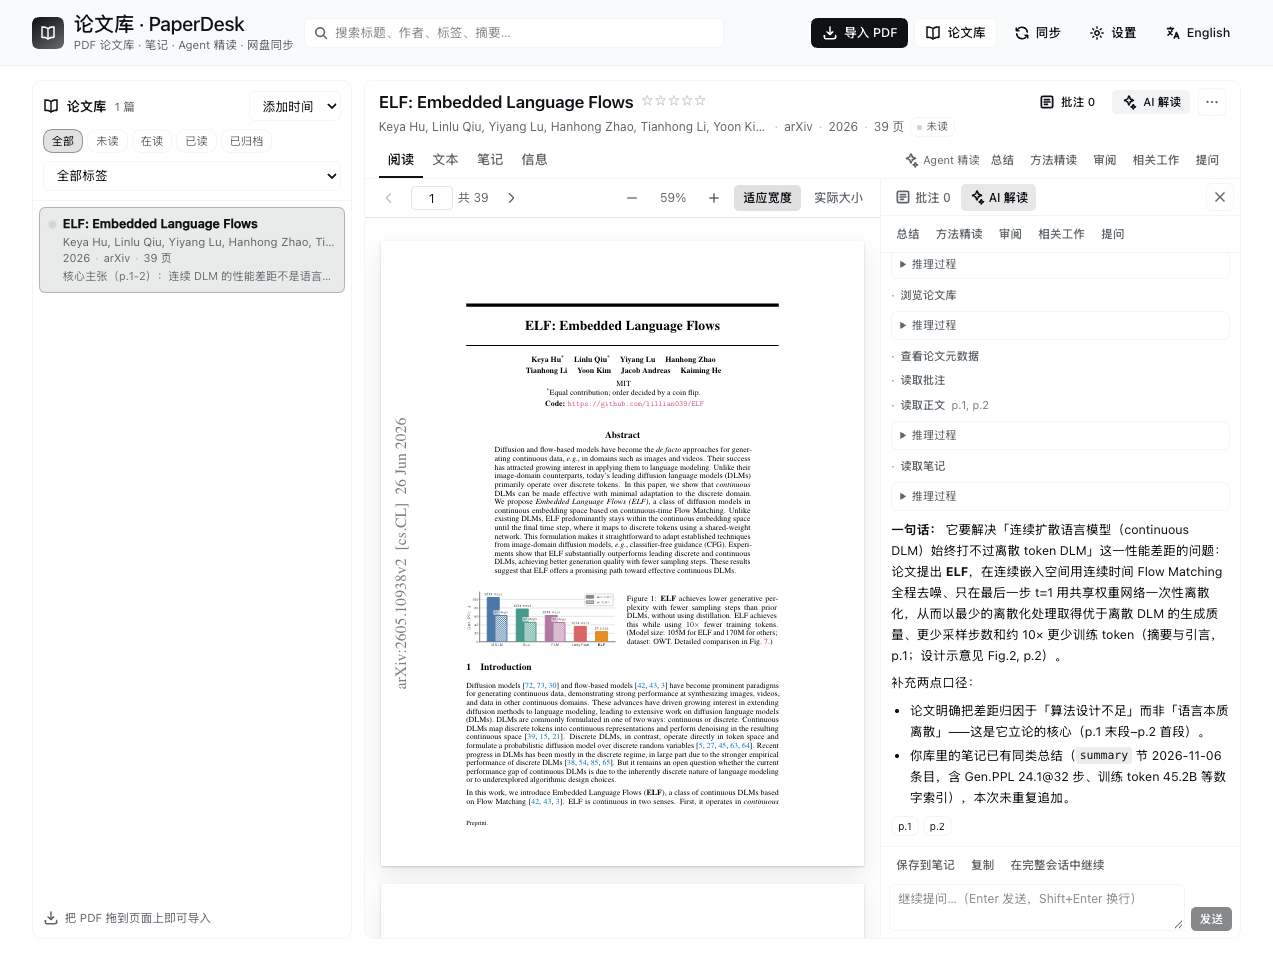
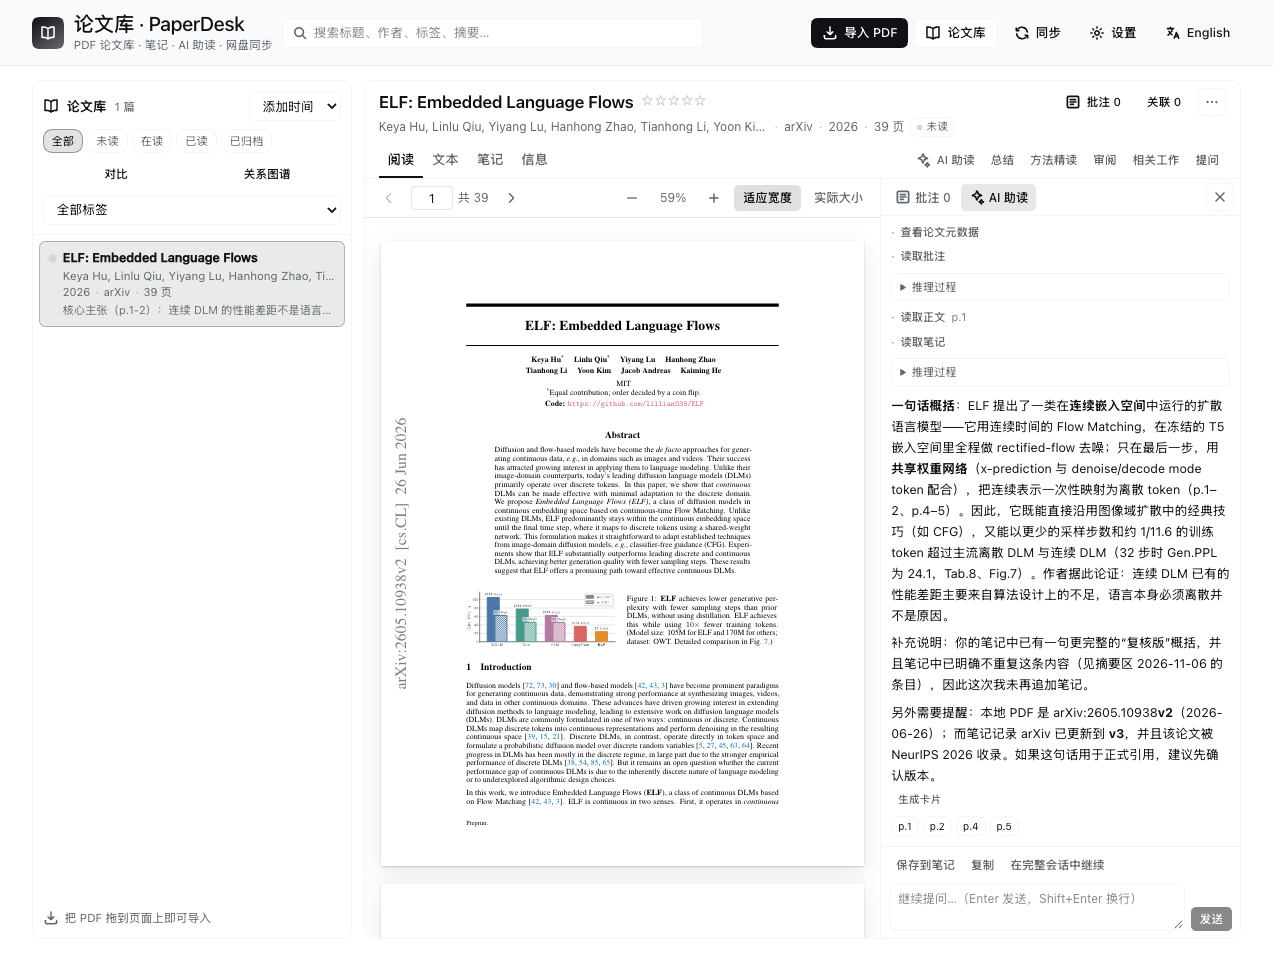
fix(reader): single AI entry, reliable send feedback, rename to AI 助读
- remove the duplicate header AI button; the only entry is now the AI 助读
  button + task chips above the viewer
- drop the duplicate task row inside the AI drawer (keeps conversation,
  citations, card action and follow-up input only)
- send no longer clears the draft before the session accepts the prompt: a
  rejected send keeps the question and shows the error; show the thinking
  indicator immediately while attaching/submitting
- rename AI 解读 / Agent 精读 to AI 助读 (zh) and AI reading (en) across
  reader, drawer, dialogs, cards and aria labels
- update the reader/AI screenshot; bump to 0.3.1

diff --git a/client/i18n.ts b/client/i18n.ts
@@ -14,11 +14,11 @@ export type Lang = 'zh' | 'en'
 const zh = {
   // ── panel registration (used by client/index.tsx) ──────────────────────
   'title': '论文库 PaperDesk',
-  'description': '管理论文：导入 PDF、自动补全元数据、记笔记与高亮，并让 Agent 精读论文。',
+  'description': '管理论文：导入 PDF、自动补全元数据、记笔记与高亮，并让 AI 帮你读论文。',
 
   // ── app shell ──────────────────────────────────────────────────────────
   'app.title': '论文库 · PaperDesk',
-  'app.subtitle': 'PDF 论文库 · 笔记 · Agent 精读 · 网盘同步',
+  'app.subtitle': 'PDF 论文库 · 笔记 · AI 助读 · 网盘同步',
   'app.lang.zh': '中文',
   'app.lang.en': 'English',
   'app.lang.label': '界面语言',
@@ -196,7 +196,7 @@ const zh = {
   'annotations.saveFailed': '保存批注失败',
   'annotations.deleteFailed': '删除批注失败',
   'annotations.askTitle': '针对这条批注问 Agent',
-  'annotations.askDesc': '问题会和引用原文一起带给 Agent，并在新会话中发送。',
+  'annotations.askDesc': '问题会和引用原文一起发给 AI 助读，并在右侧面板中继续。',
   'annotations.askPlaceholder': '想问什么？',
   'annotations.askSubmit': '发送',
   'annotations.askFailed': '无法向 Agent 提问',
@@ -288,8 +288,8 @@ const zh = {
   'notes.retry': '重新加载',
 
   // ── in-panel AI drawer ─────────────────────────────────────────────────
-  'ai.title': 'AI 解读',
-  'ai.emptyHint': '选择上面的任务，让 Agent 在这里精读这篇论文。',
+  'ai.title': 'AI 助读',
+  'ai.emptyHint': '点上方任务快速开始，或在下方直接提问。',
   'ai.thinking': '正在思考…',
   'ai.attaching': '正在连接会话…',
   'ai.stop': '停止',
@@ -305,7 +305,7 @@ const zh = {
   'ai.openInSessionFailed': '无法打开完整会话',
   'ai.jumpHint': '引用页',
   'ai.retry': '重试',
-  'ai.error': 'AI 解读失败',
+  'ai.error': 'AI 助读失败',
   'ai.attachFailed': '无法连接 AI 会话',
   'ai.nothingToSave': '还没有可保存的回复',
   'ai.scrolledUpHint': '跳到最新',
@@ -313,8 +313,8 @@ const zh = {
   'ai.reasoning': '推理过程',
 
   // ── agent assist ───────────────────────────────────────────────────────
-  'assist.title': 'Agent 精读',
-  'assist.hint': '在右侧面板中运行 Agent',
+  'assist.title': 'AI 助读',
+  'assist.hint': '在右侧面板中让 AI 帮你读这篇论文',
   'assist.summary': '总结',
   'assist.method': '方法精读',
   'assist.critique': '审阅',
@@ -323,8 +323,8 @@ const zh = {
   'assist.quote': '针对选中内容提问',
   'assist.custom': '自定义',
   'assist.failed': '无法启动新会话',
-  'assist.question.title': '向 Agent 提问',
-  'assist.question.desc': '问题会带着选中内容一起发送给右侧面板中的 Agent。',
+  'assist.question.title': '向 AI 助读提问',
+  'assist.question.desc': '问题会带着选中内容一起发送到右侧 AI 助读面板。',
   'assist.question.placeholder': '输入你的问题…',
   'assist.question.ask': '开始提问',
 
@@ -443,7 +443,7 @@ const zh = {
   'aria.tagFilter': '按标签筛选',
   'aria.sort': '排序方式',
   'aria.notesEditor': '笔记编辑器',
-  'aria.assistBar': 'Agent 精读操作',
+  'aria.assistBar': 'AI 助读操作',
   'aria.rating': '评分',
   'aria.language': '切换界面语言',
   'aria.readerTabs': '论文内容标签',
@@ -454,7 +454,7 @@ const zh = {
   'cards.create': '新建卡片',
   'cards.loading': '正在加载卡片…',
   'cards.empty': '还没有卡片',
-  'cards.emptyHint': '从 AI 解读的回答生成卡片，把结论沉淀在笔记旁边。',
+  'cards.emptyHint': '从 AI 助读的回答生成卡片，把结论沉淀在笔记旁边。',
   'cards.editorCreate': '生成卡片',
   'cards.editorEdit': '编辑卡片',
   'cards.editorHint': '卡片保存在论文目录的 cards.json 中，可以编辑后再插入笔记。',
@@ -523,11 +523,11 @@ type DictKey = keyof typeof zh
 const en: Record<DictKey, string> = {
   // ── panel registration (used by client/index.tsx) ──────────────────────
   'title': 'PaperDesk Library',
-  'description': 'Manage papers: import PDFs, enrich metadata, take notes and let the agent deep-read them.',
+  'description': 'Manage papers: import PDFs, enrich metadata, take notes and let AI help you read them.',
 
   // ── app shell ──────────────────────────────────────────────────────────
   'app.title': 'PaperDesk · Library',
-  'app.subtitle': 'PDF library · notes · agent deep-reads · cloud sync',
+  'app.subtitle': 'PDF library · notes · AI reading · cloud sync',
   'app.lang.zh': '中文',
   'app.lang.en': 'English',
   'app.lang.label': 'Interface language',
@@ -798,7 +798,7 @@ const en: Record<DictKey, string> = {
 
   // ── in-panel AI drawer ─────────────────────────────────────────────────
   'ai.title': 'AI reading',
-  'ai.emptyHint': 'Pick a task above and let the agent read this paper right here.',
+  'ai.emptyHint': 'Pick a task above to start, or ask below.',
   'ai.thinking': 'Thinking…',
   'ai.attaching': 'Connecting the session…',
   'ai.stop': 'Stop',
@@ -822,8 +822,8 @@ const en: Record<DictKey, string> = {
   'ai.reasoning': 'Reasoning',
 
   // ── agent assist ───────────────────────────────────────────────────────
-  'assist.title': 'Agent deep-read',
-  'assist.hint': 'runs the agent in the side panel',
+  'assist.title': 'AI reading',
+  'assist.hint': 'Read this paper with AI in the side panel',
   'assist.summary': 'Summary',
   'assist.method': 'Method deep-dive',
   'assist.critique': 'Critique',
@@ -832,8 +832,8 @@ const en: Record<DictKey, string> = {
   'assist.quote': 'Ask about selection',
   'assist.custom': 'Custom',
   'assist.failed': 'Could not start a new session',
-  'assist.question.title': 'Ask the agent',
-  'assist.question.desc': 'The question and the selection are sent to the agent in the side panel.',
+  'assist.question.title': 'Ask the AI reader',
+  'assist.question.desc': 'The question and the selection are sent to the AI panel on the right.',
   'assist.question.placeholder': 'Type your question…',
   'assist.question.ask': 'Ask',
 
@@ -952,7 +952,7 @@ const en: Record<DictKey, string> = {
   'aria.tagFilter': 'Filter by tag',
   'aria.sort': 'Sort order',
   'aria.notesEditor': 'Notes editor',
-  'aria.assistBar': 'Agent deep-read actions',
+  'aria.assistBar': 'AI reading actions',
   'aria.rating': 'Rating',
   'aria.language': 'Switch interface language',
   'aria.readerTabs': 'Paper content tabs',

diff --git a/client/AiPanel.tsx b/client/AiPanel.tsx
@@ -11,10 +11,6 @@ import type { AiRow, AiThreadController } from './aiSession.js'
 import { Markdown } from './markdown.js'
 import { Button, Spinner } from './ui.js'
 
-/** Tasks rendered as chips (提问 focuses the follow-up box instead). */
-type PanelTask = 'summary' | 'method' | 'critique' | 'related'
-const PANEL_TASKS: readonly PanelTask[] = ['summary', 'method', 'critique', 'related']
-
 /** Every string the panel renders (owned by i18n, zh + en). */
 export interface AiPanelLabels {
   title: string
@@ -42,7 +38,8 @@ export interface AiPanelProps {
   busyTask: AssistTask | null
   labels: AiPanelLabels
   onRunTask: (task: AssistTask, extra?: string) => void | Promise<void>
-  onAsk: (question: string) => void | Promise<void>
+  /** Resolves true when the prompt was accepted by the session. */
+  onAsk: (question: string) => boolean | Promise<boolean>
   onStop: () => void | Promise<void>
   onSaveToNotes: (text: string) => void | Promise<void>
   onCopy: (text: string) => void | Promise<void>
@@ -84,22 +81,22 @@ function firstLine(text: string): string {
 }
 
 export function AiPanel(props: AiPanelProps) {
-  const { ai, busyTask, labels, onRunTask, onAsk, onStop, onSaveToNotes, onCopy, onOpenInSession, onJumpPage, onCreateCard } = props
+  const { ai, labels, onAsk, onStop, onSaveToNotes, onCopy, onOpenInSession, onJumpPage, onCreateCard } = props
 
   const subscribe = useCallback((listener: () => void) => ai.subscribe(listener), [ai])
   const getSnapshot = useCallback(() => ai.getSnapshot(), [ai])
   const snapshot = useSyncExternalStore(subscribe, getSnapshot)
 
   const [draft, setDraft] = useState('')
+  const [sending, setSending] = useState(false)
   const [follow, setFollow] = useState(true)
   const [hasNew, setHasNew] = useState(false)
   const scrollRef = useRef<HTMLDivElement | null>(null)
-  const inputRef = useRef<HTMLTextAreaElement | null>(null)
 
   const rows = snapshot.rows
   const running = snapshot.status === 'running'
   const attaching = snapshot.status === 'attaching'
-  const disabled = running || attaching
+  const disabled = running || attaching || sending
   const answer = ai.lastAnswer()
   const pages = useMemo(() => collectCitedPages(rows), [rows])
 
@@ -149,21 +146,19 @@ export function AiPanel(props: AiPanelProps) {
     setHasNew(false)
   }
 
-  const focusFollowUp = (): void => {
-    inputRef.current?.focus()
-  }
-
   const send = async (): Promise<void> => {
     const text = draft.trim()
     if (text === '' || disabled) return
-    setDraft('')
     setFollow(true)
-    await onAsk(text)
-  }
-
-  const runTask = (task: AssistTask): void => {
-    if (disabled || busyTask !== null) return
-    void onRunTask(task)
+    setSending(true)
+    try {
+      const accepted = await onAsk(text)
+      // Keep the question in the box when the session refused it, so the
+      // failure is visible and the user can retry instead of losing the text.
+      if (accepted) setDraft('')
+    } finally {
+      setSending(false)
+    }
   }
 
   const retryLast = (prompt: string): void => {
@@ -237,24 +232,6 @@ export function AiPanel(props: AiPanelProps) {
 
   return (
     <div className="pd-ai" role="region" aria-label={labels.title}>
-      <div className="pd-ai-tasks" role="group" aria-label={labels.title}>
-        {PANEL_TASKS.map((task) => (
-          <Button
-            key={task}
-            size="sm"
-            variant="ghost"
-            disabled={disabled || busyTask !== null}
-            loading={busyTask === task}
-            onClick={() => runTask(task)}
-          >
-            {labels.taskLabels[task]}
-          </Button>
-        ))}
-        <Button size="sm" variant="ghost" disabled={disabled || busyTask !== null} onClick={focusFollowUp}>
-          {labels.taskLabels.questions}
-        </Button>
-      </div>
-
       <div className="pd-ai-body">
         <div className="pd-ai-scroll" ref={scrollRef} onScroll={onScroll}>
           {attaching ? (
@@ -295,7 +272,7 @@ export function AiPanel(props: AiPanelProps) {
             </div>
           ))}
 
-          {running ? (
+          {running || sending ? (
             <div className="pd-ai-thinking">
               <Spinner size={11} label={labels.thinking} />
               <span>{labels.thinking}</span>
@@ -353,7 +330,6 @@ export function AiPanel(props: AiPanelProps) {
         </div>
         <div className="pd-ai-inputRow">
           <textarea
-            ref={inputRef}
             className="pd-textarea pd-ai-input"
             rows={2}
             value={draft}

diff --git a/client/ReaderView.tsx b/client/ReaderView.tsx
@@ -119,7 +119,7 @@ export interface ReaderViewProps {
   onUndo: () => Promise<void>
   onAskAboutSelection: (payload: { quote: string; page: number; question: string; rects: AnnotationRect[] }) => Promise<void>
   ai: AiThreadController
-  onAiAsk: (question: string) => Promise<void>
+  onAiAsk: (question: string) => Promise<boolean>
   onAiStop: () => Promise<void>
   onAiSaveToNotes: (text: string) => Promise<void>
   onAiCopy: (text: string) => Promise<void>
@@ -760,23 +760,6 @@ export function ReaderView(props: ReaderViewProps) {
             <Button
               size="sm"
               variant="ghost"
-              icon={<IconSpark size={13} />}
-              aria-pressed={drawerButtonPressed(drawer, 'ai')}
-              onClick={() => {
-                if (tab !== 'read') {
-                  setTab('read')
-                  openDrawer('ai')
-                  return
-                }
-                toggleDrawer('ai')
-              }}
-              title={t('ai.title')}
-            >
-              {t('ai.title')}
-            </Button>
-            <Button
-              size="sm"
-              variant="ghost"
               onClick={onOpenRelations}
               title={t('reader.relations', { n: relationCount })}
             >
@@ -892,10 +875,19 @@ export function ReaderView(props: ReaderViewProps) {
               tabs={READER_TABS.map((id) => ({ id, label: tabLabel(t, id) }))}
             />
             <div className="pd-assist-inline" role="group" aria-label={t('aria.assistBar')} title={t('assist.hint')}>
-              <span className="pd-assist-inline-label">
-                <IconSpark size={12} />
+              <Button
+                size="sm"
+                variant="ghost"
+                icon={<IconSpark size={12} />}
+                aria-pressed={drawerButtonPressed(drawer, 'ai')}
+                onClick={() => {
+                  setTab('read')
+                  openDrawer('ai')
+                }}
+                title={t('assist.hint')}
+              >
                 {t('assist.title')}
-              </span>
+              </Button>
               {ASSIST_TASKS.map((task) => (
                 <Button
                   key={task}
@@ -1048,7 +1040,7 @@ export function ReaderView(props: ReaderViewProps) {
                     busyTask={assistBusy}
                     labels={aiLabels}
                     onRunTask={(task) => runTask(task)}
-                    onAsk={(text) => void onAiAsk(text)}
+                    onAsk={(text) => onAiAsk(text)}
                     onStop={() => void onAiStop()}
                     onSaveToNotes={(text) => void onAiSaveToNotes(text)}
                     onCopy={(text) => void onAiCopy(text)}

diff --git a/client/App.tsx b/client/App.tsx
@@ -1096,12 +1096,12 @@ function AppBody({ ctx, lang, onLangChange }: AppBodyProps) {
 
   /** Follow-up / retry inside the AI panel: send raw text into the same session. */
   const handleAiAsk = useCallback(
-    async (question: string): Promise<void> => {
+    async (question: string): Promise<boolean> => {
       const paperId = selectedId
-      if (paperId === null) return
+      if (paperId === null) return false
       const text = question.trim()
-      if (text === '') return
-      if (!(await ensureAiPaper(paperId))) return
+      if (text === '') return false
+      if (!(await ensureAiPaper(paperId))) return false
       try {
         const emptyThread = ai.getSnapshot().rows.length === 0
         const title = detail?.meta.title ?? paperId
@@ -1110,8 +1110,10 @@ function AppBody({ ctx, lang, onLangChange }: AppBodyProps) {
         if (!result.ok) {
           pushToast('error', result.error !== undefined && result.error !== '' ? result.error : tRef.current('ai.error'))
         }
+        return result.ok
       } catch (error) {
         reportError(error, 'ai.error')
+        return false
       }
     },
     [selectedId, ai, ensureAiPaper, pushToast, reportError],

diff --git a/docs/RELEASE-v0.3.1.md b/docs/RELEASE-v0.3.1.md
@@ -1,0 +1,31 @@
+# PaperDesk v0.3.1
+
+阅读器 AI 面板的一次小修与整理。
+
+## 修复
+
+- **发送不再“无声失败”**：以前点击「发送」会先清空输入框；如果会话拒绝/失败，问题文本就消失了。
+  现在只有在会话接受后才清空，失败时保留问题并显示错误提示，方便重试。
+- **发送即时反馈**：等待连接/提交期间就显示「正在思考…」，不用等首字出来才知道有没有点中。
+- 输入为空时发送按钮保持禁用，不再出现“点了没反应”。
+
+## 界面整理
+
+- 去掉阅读器右上角重复的「AI 解读」按钮；现在只有一个入口：标题栏下方的 **「AI 助读」** +
+  总结 / 方法精读 / 审阅 / 相关工作 / 提问。
+- 抽屉里重复的一套任务按钮已移除；抽屉只保留对话、引用页、生成卡片和输入框。
+- 统一命名：原来的「AI 解读」和「Agent 精读」现在都叫 **「AI 助读」**（英文 AI reading）。
+
+## 安装
+
+```sh
+dsh plugin --profile web add @zhe_xuan/dsh-paper-desk
+```
+
+或使用本 Release 的预构建包（内容与 npm 一致）。
+
+## 验证
+
+- 点击「AI 助读」打开抽屉 → 直接提问 → 回复正常出现，输入框在成功后清空
+- 顶部不再有重复的 AI 按钮；抽屉内不再有第二套任务栏
+- 中文/英文文案同步更新，`tsc` 与构建通过

diff --git a/docs/PUBLISHING.md b/docs/PUBLISHING.md
@@ -155,7 +155,7 @@ dsh plugin --profile web add dsh-paper-desk
 
 ## 当前状态（2026-11-09）
 
-- npm 已发布：**`@zhe_xuan/dsh-paper-desk@0.3.0`**（scope 是 npm 名称相似规则要求的）。
+- npm 已发布：**`@zhe_xuan/dsh-paper-desk@0.3.1`**（scope 是 npm 名称相似规则要求的）。
 - 市场 PR：<https://github.com/awesome-dsh-plugin/awesome-dsh-plugin/pull/13433>，
   `Submission gate` ✅、`check` ✅、`MERGEABLE`，等维护者合并。
 - Release：<https://github.com/ZhexuanZhou/dsh-paper-desk/releases/tag/v0.3.0>，
